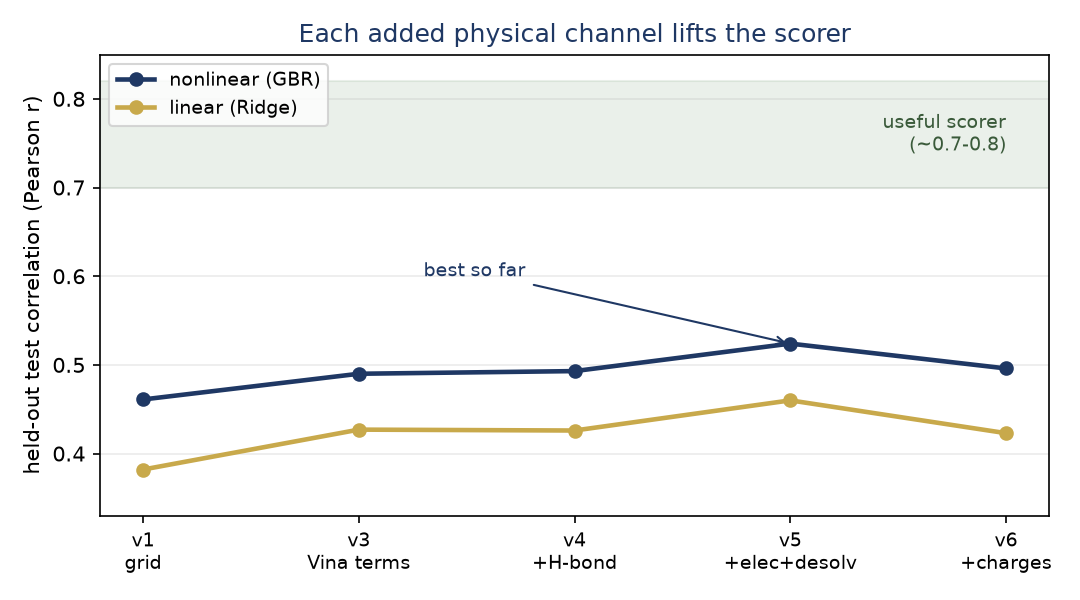
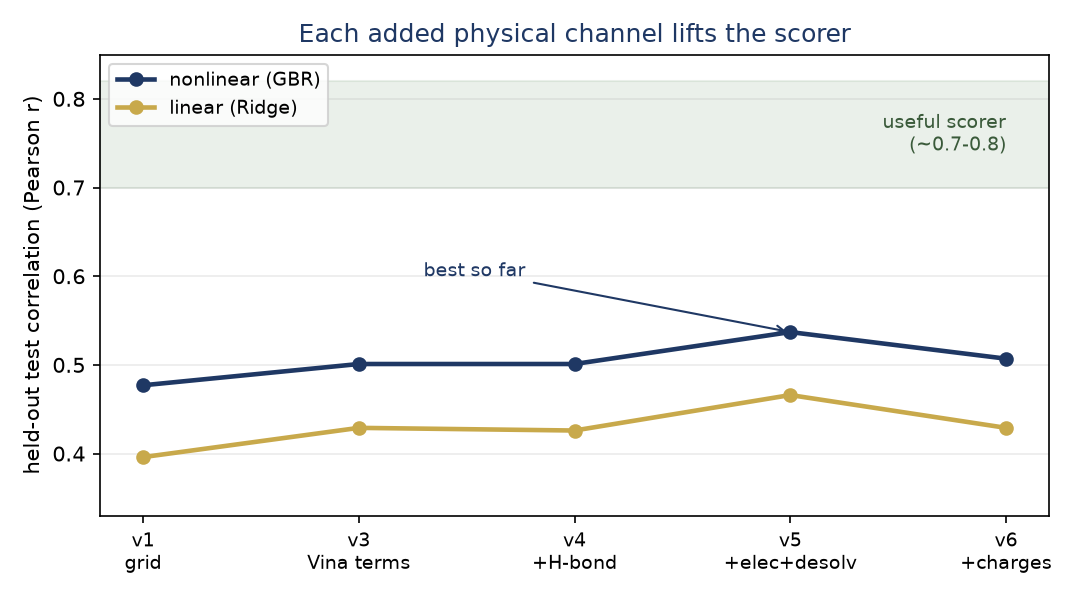
Pool val into train for cluster-aware 5-fold; refresh numbers + figure
Test (4,753) stays frozen; val is merged into train so the full 13,384
run through cluster-aware 5-fold CV (no fold shares a protein). Recomputed
all versions from cached features — trajectory unchanged, v5 still best
(test GBR 0.52->0.54). Updated channel_climb.png, README, RESEARCH_SUMMARY,
presentation tables, and the exact dropped-count breakdown (270 affinity + 630 split).

diff --git a/src/refold_all.py b/src/refold_all.py
@@ -1,0 +1,41 @@
+"""Recompute all versions with val merged into train (test frozen). Reuses cached npz."""
+import numpy as np, pandas as pd
+from scipy.stats import pearsonr, spearmanr
+from sklearn.ensemble import GradientBoostingRegressor
+from sklearn.linear_model import Ridge
+from sklearn.model_selection import GroupKFold
+from sklearn.preprocessing import StandardScaler
+
+man = pd.read_csv("out/v1/manifest.csv")
+
+def met(y, p):
+    return pearsonr(y, p)[0], spearmanr(y, p)[0], float(np.sqrt(np.mean((y-p)**2)))
+
+def run(ver):
+    d = np.load(f"out/{ver}/{ver}_features.npz", allow_pickle=True)
+    NAMES = [str(x) for x in d["feature_names"]]
+    feat = pd.DataFrame(d["X"], columns=NAMES); feat["id"] = [str(x) for x in d["ids"]]
+    df = man.merge(feat, on="id", how="inner").dropna(subset=NAMES)
+    tr = df[df.split.isin(["train","val"])].reset_index(drop=True)
+    te = df[df.split == "test"].reset_index(drop=True)
+    Xtr, ytr, gtr = tr[NAMES].values, tr["pKd"].values, tr["seq"].values
+    Xte, yte = te[NAMES].values, te["pKd"].values
+    gkf = GroupKFold(n_splits=5)
+    orf = np.full(len(tr), np.nan); ogf = np.full(len(tr), np.nan)
+    for itr, ite in gkf.split(Xtr, ytr, gtr):
+        sc = StandardScaler().fit(Xtr[itr])
+        orf[ite] = Ridge(alpha=1.0).fit(sc.transform(Xtr[itr]), ytr[itr]).predict(sc.transform(Xtr[ite]))
+        ogf[ite] = GradientBoostingRegressor(random_state=0).fit(Xtr[itr], ytr[itr]).predict(Xtr[ite])
+    sc = StandardScaler().fit(Xtr)
+    rm = Ridge(alpha=1.0).fit(sc.transform(Xtr), ytr)
+    gm = GradientBoostingRegressor(random_state=0).fit(Xtr, ytr)
+    pr, pg = rm.predict(sc.transform(Xte)), gm.predict(Xte)
+    cr, cg, trr, tgr = met(ytr,orf), met(ytr,ogf), met(yte,pr), met(yte,pg)
+    print(f"{ver}  n_tr={len(tr)} n_te={len(te)} | "
+          f"CV Ridge {cr[0]:.3f}/GBR {cg[0]:.3f} | TEST Ridge {trr[0]:.3f} GBR {tgr[0]:.3f}")
+    return ver, trr[0], tgr[0]
+
+print("version  sizes | CV | TEST (val merged into train, test frozen)")
+res = [run(v) for v in ["v1","v3","v4","v5","v6"]]
+print("\nRIDGE =", {v: round(r,3) for v,r,g in res})
+print("GBR   =", {v: round(g,3) for v,r,g in res})

diff --git a/src/make_example_figs.py b/src/make_example_figs.py
@@ -35,8 +35,8 @@ def seed_of(code):
 
 def climb():
     vers = ["v1\ngrid", "v3\nVina terms", "v4\n+H-bond", "v5\n+elec+desolv", "v6\n+charges"]
-    ridge = [0.382, 0.427, 0.426, 0.460, 0.423]
-    gbr = [0.461, 0.490, 0.493, 0.524, 0.496]
+    ridge = [0.396, 0.429, 0.426, 0.466, 0.429]
+    gbr = [0.477, 0.501, 0.501, 0.537, 0.507]
     x = range(len(vers))
     fig, ax = plt.subplots(figsize=(7.2, 4.0))
     ax.plot(x, gbr, "-o", color=NAVY, lw=2.2, label="nonlinear (GBR)")
@@ -44,7 +44,7 @@ def climb():
     ax.axhspan(0.70, 0.82, color="#8Fae8f", alpha=0.18)
     ax.text(len(vers) - 1, 0.76, "useful scorer\n(~0.7-0.8)", ha="right", va="center",
             fontsize=9, color="#3a5a3a")
-    ax.annotate("best so far", xy=(3, 0.524), xytext=(1.3, 0.60), fontsize=9, color=NAVY,
+    ax.annotate("best so far", xy=(3, 0.537), xytext=(1.3, 0.60), fontsize=9, color=NAVY,
                 arrowprops=dict(arrowstyle="->", color=NAVY))
     ax.set_xticks(list(x)); ax.set_xticklabels(vers, fontsize=9)
     ax.set_ylabel("held-out test correlation (Pearson r)")

diff --git a/RESEARCH_SUMMARY.md b/RESEARCH_SUMMARY.md
@@ -13,8 +13,8 @@
 
 ## 2. 데이터 & 평가
 - PDBbind v2020 general: 색인 19,037 → 사용 가능 **18,137** (깨끗한 `=` 친화도 + LP-PDBBind 분할).
-- 분할(LP-PDBBind, 누출방지): train 11,044 / val 2,340 / test 4,753. 서열 클러스터 11,831개.
-- **클러스터 인지 5-fold GroupKFold**(단백질 누출 방지) + 동결 held-out test.
+- 분할(LP-PDBBind, 누출방지): **test 4,753 동결**, 나머지 **13,384**(train+val 병합)을 CV에 사용.
+- **클러스터 인지 5-fold GroupKFold**(서열 클러스터로 그룹핑 → 어느 fold도 같은 단백질 공유 안 함) + 동결 held-out test.
 - 지표 = **예측 pKd vs 실험 pKd**: Pearson r, Spearman ρ, RMSE. 포즈는 별도(아래 §4).
 - 별도 벤치마크 준비됨(미실행): PoseBusters(포즈), LIT-PCBA(농축), COCONUT(스크리닝 라이브러리).
 - 인프라: 서버 conda env `fieldscreen`, 224 CPU 코어 샤딩, GPU 노드 유휴.
@@ -24,11 +24,11 @@
 
 | 버전 | 채널 | test Ridge r | test GBR r | 메모 |
 |---|---|---|---|---|
-| v1 | 격자 겹침 5채널 | 0.38 | 0.46 | 5채널이 묻힌부피축 1개로 공선 |
-| v3 | Vina식 쌍 상호작용 6채널 | 0.43 | 0.49 | 공선 깨짐(VIF↓) |
-| v4 | + 기하 H-결합 | 0.43 | 0.49 | H-결합 개별 상관 0.02→0.085, 전체 r은 불변 |
-| **v5** | **+ 정전기 + 탈용매** | **0.46** | **0.52** | **최고. 단일 최대 상승** |
-| v6 | + 전하 품질(MMFF+형식전하) | 0.42 | 0.50 | 정전기 부호는 물리적으로 개선됐으나 r은 하락(정직한 음성) |
+| v1 | 격자 겹침 5채널 | 0.40 | 0.48 | 5채널이 묻힌부피축 1개로 공선 |
+| v3 | Vina식 쌍 상호작용 6채널 | 0.43 | 0.50 | 공선 깨짐(VIF↓) |
+| v4 | + 기하 H-결합 | 0.43 | 0.50 | H-결합 개별 상관 0.02→0.085, 전체 r은 불변 |
+| **v5** | **+ 정전기 + 탈용매** | **0.47** | **0.54** | **최고. 단일 최대 상승** |
+| v6 | + 전하 품질(MMFF+형식전하) | 0.43 | 0.51 | 정전기 부호는 물리적으로 개선됐으나 r은 하락(정직한 음성) |
 
 **핵심 교훈**
 - 정전기 + 탈용매가 가장 큰 기여(v5). elec은 단독 상관 ≈0인데 큰 가중치를 받는 **억제변수**로 작동.

diff --git a/README.md b/README.md
@@ -49,11 +49,12 @@ repo; scripts expect them under a local `data/` and write to `out/` (both git-ig
 - **Used: 18,137.** Kept only complexes that had **both** (a) a clean `=` affinity
   (Kd / Ki / IC50 → pKd = −log₁₀ M) **and** (b) an entry in the LP-PDBBind leak-proof split
   with a sequence cluster.
-- **Dropped: ~900.** Reasons: the affinity was approximate or a range (`~`, `<`, `>`, or an
-  unparseable unit), **or** the complex was not present in LP-PDBBind (no leak-proof split /
-  cluster). These are excluded rather than guessed.
-- Split (LP-PDBBind): **train 11,044 / val 2,340 / test 4,753**; 11,831 sequence clusters
-  used as CV groups so no fold shares a protein.
+- **Dropped: 900.** Two reasons: (a) **270** had a non-clean affinity — approximate or a range
+  (`~`, `<`, `>`), or an unparseable unit (263 approximate/range + 7 unparseable); (b) **630**
+  were in LP-PDBBind but had **no leak-proof split assigned** (blank `new_split`). Excluded
+  rather than guessed.
+- Split (LP-PDBBind): **test 4,753 frozen**; the remaining **13,384** (train + val pooled) run
+  through **cluster-aware 5-fold CV**, grouped by sequence cluster so no fold shares a protein.
 
 **Downloaded and prepared but NOT YET used (benchmarks pending):**
 - **PoseBusters** — intended pose-accuracy benchmark (RMSD < 2 Å); blind docking not run yet.
@@ -67,11 +68,11 @@ Building the scorer up from shape overlaps to a full, Glide-like channel set:
 
 | step | channels | test Ridge r | test GBR r |
 |---|---|---|---|
-| v1 | grid overlaps | 0.38 | 0.46 |
-| v3 | Vina-style pair terms | 0.43 | 0.49 |
-| v4 | + geometric H-bond | 0.43 | 0.49 |
-| **v5** | **+ electrostatics + desolvation** | **0.46** | **0.52** |
-| v6 | + better charges | 0.42 | 0.50 |
+| v1 | grid overlaps | 0.40 | 0.48 |
+| v3 | Vina-style pair terms | 0.43 | 0.50 |
+| v4 | + geometric H-bond | 0.43 | 0.50 |
+| **v5** | **+ electrostatics + desolvation** | **0.47** | **0.54** |
+| v6 | + better charges | 0.43 | 0.51 |
 
 A *useful* scorer is ~0.7–0.8, so this is still a weak scorer — the point is the climb and
 what it teaches. H-bond count and charge quality barely move affinity r (an honest finding:
